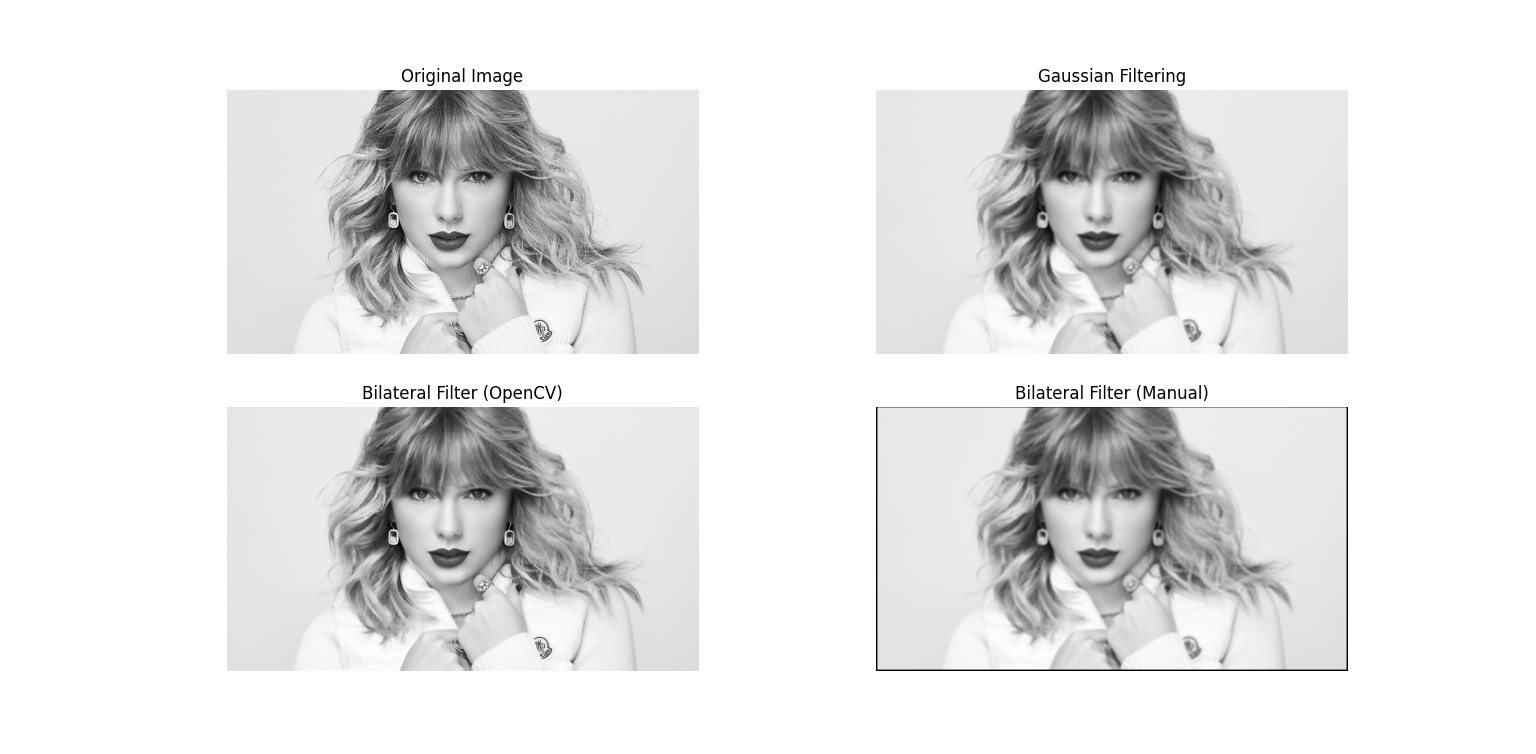
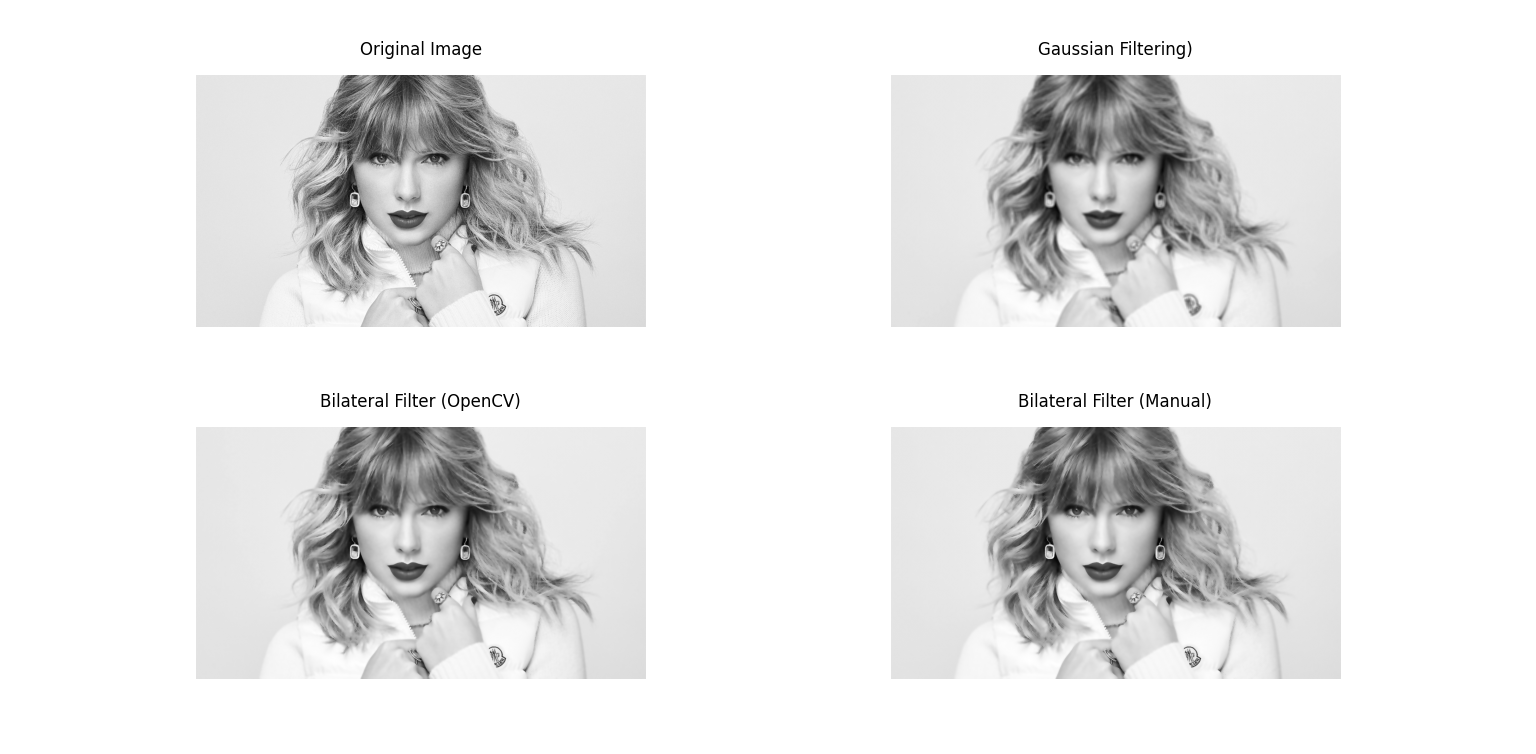
Bilateral Filtering(Q10)

diff --git a/src/q10_bilateral_filtering.py b/src/q10_bilateral_filtering.py
@@ -7,65 +7,81 @@ def bilateral_filter_manual(img, diameter, sigma_s, sigma_r):
     h, w = img.shape
     radius = diameter // 2
     output = np.zeros_like(img, dtype=np.float32)
+    
+    # Add padding to handle edges
+    padded_img = cv2.copyMakeBorder(img, radius, radius, radius, radius, cv2.BORDER_REFLECT)
 
-    for i in range(radius, h - radius):
-        for j in range(radius, w - radius):
+    for i in range(h):
+        for j in range(w):
             wp = 0
             filtered_value = 0
+            i_pad, j_pad = i + radius, j + radius
+            p_intensity = padded_img[i_pad, j_pad]
 
             for x in range(-radius, radius + 1):
                 for y in range(-radius, radius + 1):
-                    spatial_weight = math.exp(-(x**2 + y**2) / (2 * sigma_s**2))
-                    intensity_diff = img[i + x, j + y] - img[i, j]
-                    range_weight = math.exp(-(intensity_diff**2) / (2 * sigma_r**2))
-
+                    q_intensity = padded_img[i_pad + x, j_pad + y]
+                    
+                    # Spatial Weight
+                    spatial_dist_sq = x**2 + y**2
+                    spatial_weight = math.exp(-spatial_dist_sq / (2 * sigma_s**2))
+                    
+                    # Range Weight
+                    intensity_diff_sq = (float(q_intensity) - float(p_intensity))**2
+                    range_weight = math.exp(-intensity_diff_sq / (2 * sigma_r**2))
+                    
                     weight = spatial_weight * range_weight
                     wp += weight
-                    filtered_value += weight * img[i + x, j + y]
+                    filtered_value += weight * q_intensity
 
             output[i, j] = filtered_value / wp
 
-    return np.uint8(output)
+    return np.uint8(np.clip(output, 0, 255))
 
-
-img = cv2.imread(
-    r'C:\Users\HP\OneDrive\Documents\GitHub\ET3112_Assignment_01\images\taylor.jpg',
-    cv2.IMREAD_GRAYSCALE
-)
+# ================== LOAD IMAGE ==================
+img_path = r'C:\Users\HP\OneDrive\Documents\GitHub\ET3112_Assignment_01\images\taylor.jpg'
+img = cv2.imread(img_path, cv2.IMREAD_GRAYSCALE)
 
 if img is None:
     print("Image not found!")
     exit()
 
-gaussian = cv2.GaussianBlur(img, (7, 7), sigmaX=2)
+# (b) Gaussian Smoothing
+gaussian = cv2.GaussianBlur(img, (7, 7), sigmaX=3)
 
+# (c) Bilateral Filtering (OpenCV)
 bilateral_cv = cv2.bilateralFilter(img, d=7, sigmaColor=50, sigmaSpace=50)
 
-bilateral_manual = bilateral_filter_manual(
-    img, diameter=7, sigma_s=3, sigma_r=50
-)
+# (d) Bilateral Filtering (Manual)
+bilateral_manual = bilateral_filter_manual(img, diameter=7, sigma_s=3, sigma_r=50)
 
-
-plt.figure(figsize=(12, 8))
+# ================== DISPLAY RESULTS ==================
+# 1. We use a larger figsize for more breathing room
+plt.figure(figsize=(14, 10))
 
 plt.subplot(2, 2, 1)
 plt.imshow(img, cmap='gray')
-plt.title("Original Image")
+plt.title("Original Image", pad=15)
 plt.axis('off')
 
 plt.subplot(2, 2, 2)
 plt.imshow(gaussian, cmap='gray')
-plt.title("Gaussian Filtering")
+plt.title("Gaussian Filtering)", pad=15)
 plt.axis('off')
 
 plt.subplot(2, 2, 3)
 plt.imshow(bilateral_cv, cmap='gray')
-plt.title("Bilateral Filter (OpenCV)")
+plt.title("Bilateral Filter (OpenCV)", pad=15)
 plt.axis('off')
 
 plt.subplot(2, 2, 4)
 plt.imshow(bilateral_manual, cmap='gray')
-plt.title("Bilateral Filter (Manual)")
+plt.title("Bilateral Filter (Manual)", pad=15)
 plt.axis('off')
+
+# 2. Adjust spacing manually: 
+# wspace = width spacing between subplots
+# hspace = height spacing between subplots
+plt.subplots_adjust(left=0.1, bottom=0.1, right=0.9, top=0.9, wspace=0.3, hspace=0.4)
 
 plt.show()
